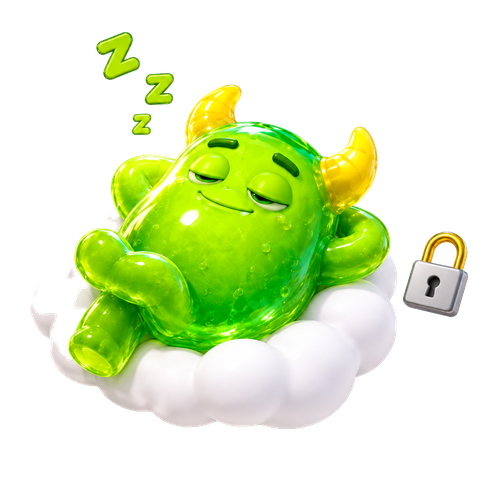
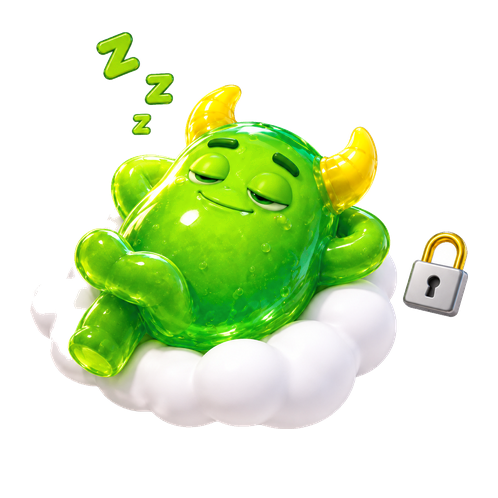
v1.1.0: jelly-locked 配色修正与 plan mascot 资源更新
- 更新 jelly-locked 与 plan mascot 图标资源及 CDN 同步
- 首页怪物样式微调，怪物位置校验与集成测试更新

Changed region(s): [[0.1205, 0.241, 0.6627, 0.753], [0.6325, 0.4217, 0.7831, 0.5723], [0.2711, 0.241, 0.3012, 0.2711]]

diff --git a/utils/image-host.js b/utils/image-host.js
@@ -69,13 +69,13 @@ const REMOTE_IMAGE_VERSIONS = {
   '/images/home/hero-campus-jelly-v5-girl.png': '20260618-art-v2',
   '/images/home/map/monsters/jelly-defeated.png': '20260620-defeated-cloth-flag-v5',
   '/images/home/map/monsters/jelly-fighting.png': '20260619-monster-3x-v1',
-  '/images/home/map/monsters/jelly-locked.png': '20260619-monster-3x-v1',
+  '/images/home/map/monsters/jelly-locked.png': '20260620-locked-color-v2',
   '/images/home/me-profile-header-monster-v2.png': '20260618-art-v2',
   '/images/home/student-monster-pk-sprite-girl.png': '20260619-pk-3x-v1',
   '/images/home/student-monster-pk-sprite.png': '20260619-pk-3x-v1',
-  '/images/plan/plan-mascot-easy.png': '20260620-plan-mascot-v6',
-  '/images/plan/plan-mascot-hard.png': '20260620-plan-mascot-v6',
-  '/images/plan/plan-mascot-normal.png': '20260620-plan-mascot-v6'
+  '/images/plan/plan-mascot-easy.png': '20260620-plan-mascot-color-v7',
+  '/images/plan/plan-mascot-hard.png': '20260620-plan-mascot-color-v7',
+  '/images/plan/plan-mascot-normal.png': '20260620-plan-mascot-color-v7'
 }
 
 function normalizeImagePath(path) {

diff --git a/tests/home-page-integration.test.js b/tests/home-page-integration.test.js
@@ -251,7 +251,7 @@ test('category cards render state-specific jelly monster sprites', () => {
   assert.match(homeTemplate, /state="{{unit\.cardMonsterState === 'fighting' \? 'running' : 'paused'}}"/)
   assert.match(homeStyle, /\.unit-card-monster\s*{/)
   assert.match(homeStyle, /\.unit-card-monster-locked\s*{/)
-  assert.match(homeStyle, /\.unit-card-monster-defeated\s*{[^}]*top:\s*-34rpx/s)
+  assert.match(homeStyle, /\.unit-card-monster-defeated\s*{[^}]*top:\s*-27rpx/s)
 })
 
 test('frame animation advances sprite frames with js timing for mini program playback', () => {

diff --git a/scripts/verify-defeated-monster-position.js b/scripts/verify-defeated-monster-position.js
@@ -15,7 +15,7 @@ const buildScriptPath = path.join(projectRoot, 'scripts/build-jelly-defeated-v3.
 const spritePath = path.join(projectRoot, 'images/home/map/monsters/jelly-defeated.png')
 const cliPath = '/Applications/wechatwebdevtools.app/Contents/MacOS/cli'
 
-const EXPECTED_TOP_RPX = -34
+const EXPECTED_TOP_RPX = -27
 const MIN_TOP_TRANSPARENT_PX = 24
 
 function readText(filePath) {
